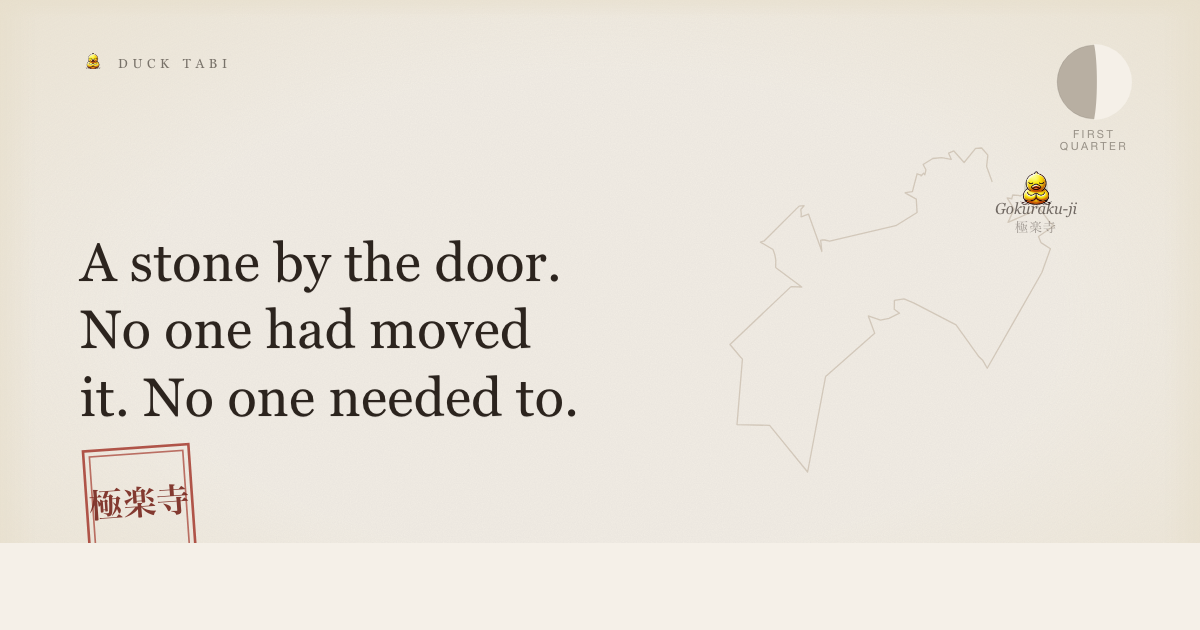
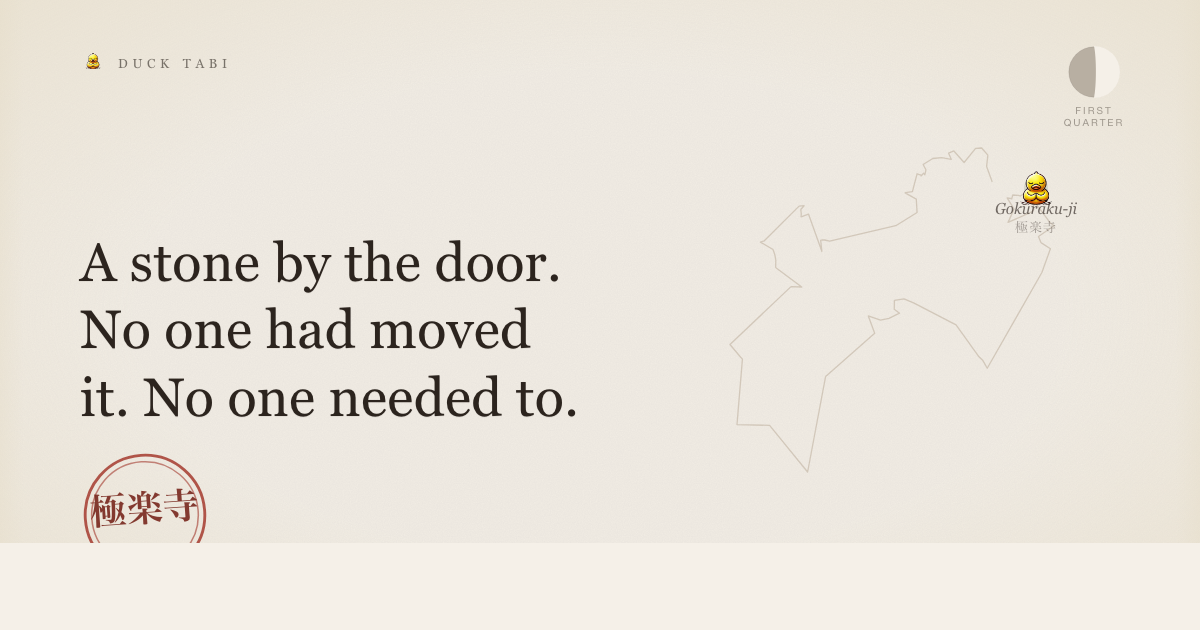
polish(og): circular goshuin, smaller moon, drop bottom deckle bar

Changed region(s): [[0.0617, 0.6937, 0.185, 0.8746], [0.8633, 0.0905, 0.925, 0.2413], [0.8942, 0.0603, 0.925, 0.0905]]

diff --git a/og/template.html b/og/template.html
@@ -49,15 +49,15 @@
       z-index: 0;
     }
 
-    /* Deckle edges — torn-paper mask on outer 8px */
+    /* Deckle edges — torn-paper feathering on the left/right only; top/bottom
+       left untouched so they don't read as horizontal bars on social previews. */
     .deckle {
       position: absolute; inset: 0;
       pointer-events: none;
       z-index: 1;
       background-image:
-        linear-gradient(to right,  var(--parchment-edge), transparent 3%, transparent 97%, var(--parchment-edge)),
-        linear-gradient(to bottom, var(--parchment-edge), transparent 3%, transparent 97%, var(--parchment-edge));
-      opacity: 0.45;
+        linear-gradient(to right, var(--parchment-edge), transparent 2%, transparent 98%, var(--parchment-edge));
+      opacity: 0.35;
     }
 
     .layout {
@@ -89,19 +89,19 @@
     /* ---- Top-right moon ---- */
     .moon {
       position: absolute;
-      top: 44px; right: 68px;
-      width: 76px; height: 76px;
+      top: 46px; right: 80px;
+      width: 52px; height: 52px;
       z-index: 3;
     }
     .moon-label {
       position: absolute;
-      top: 128px; right: 68px;
+      top: 104px; right: 68px;
       width: 76px;
       text-align: center;
-      font-size: 11px;
-      letter-spacing: 0.22em;
+      font-size: 10px;
+      letter-spacing: 0.2em;
       text-transform: uppercase;
-      color: rgba(44, 36, 30, 0.55);
+      color: rgba(44, 36, 30, 0.52);
       font-family: "Lato", "Helvetica Neue", sans-serif;
     }
 
@@ -209,12 +209,12 @@
       letter-spacing: 0.08em;
     }
 
-    /* ---- Goshuin bottom-left ---- */
+    /* ---- Goshuin bottom-left (circular stamp, mirrors the app seal) ---- */
     .goshuin {
       position: absolute;
       bottom: 50px; left: 80px;
-      width: 120px;
-      height: 140px;
+      width: 130px;
+      height: 130px;
       transform: rotate(-4deg);
       z-index: 3;
     }
@@ -230,8 +230,8 @@
     .goshuin-frame-inner {
       fill: none;
       stroke: var(--red-seal);
-      stroke-width: 1.4;
-      stroke-opacity: 0.7;
+      stroke-width: 1.2;
+      stroke-opacity: 0.6;
     }
     .goshuin-kanji {
       font-family: "Hiragino Mincho ProN", "Yu Mincho", "MS Mincho", serif;
@@ -294,11 +294,11 @@
   </div>
 
   <div class="goshuin" id="goshuin">
-    <svg viewBox="0 0 100 116" aria-hidden="true">
-      <rect class="goshuin-frame" x="6" y="6" width="88" height="104"/>
-      <rect class="goshuin-frame-inner" x="11" y="11" width="78" height="94"/>
-      <text class="goshuin-kanji" id="goshuin-kanji" x="50" y="62"></text>
-      <text class="goshuin-date" id="goshuin-date" x="50" y="98"></text>
+    <svg viewBox="0 0 100 100" aria-hidden="true">
+      <circle class="goshuin-frame" cx="50" cy="50" r="46"/>
+      <circle class="goshuin-frame-inner" cx="50" cy="50" r="41"/>
+      <text class="goshuin-kanji" id="goshuin-kanji" x="50" y="55"></text>
+      <text class="goshuin-date" id="goshuin-date" x="50" y="82"></text>
     </svg>
   </div>
 
